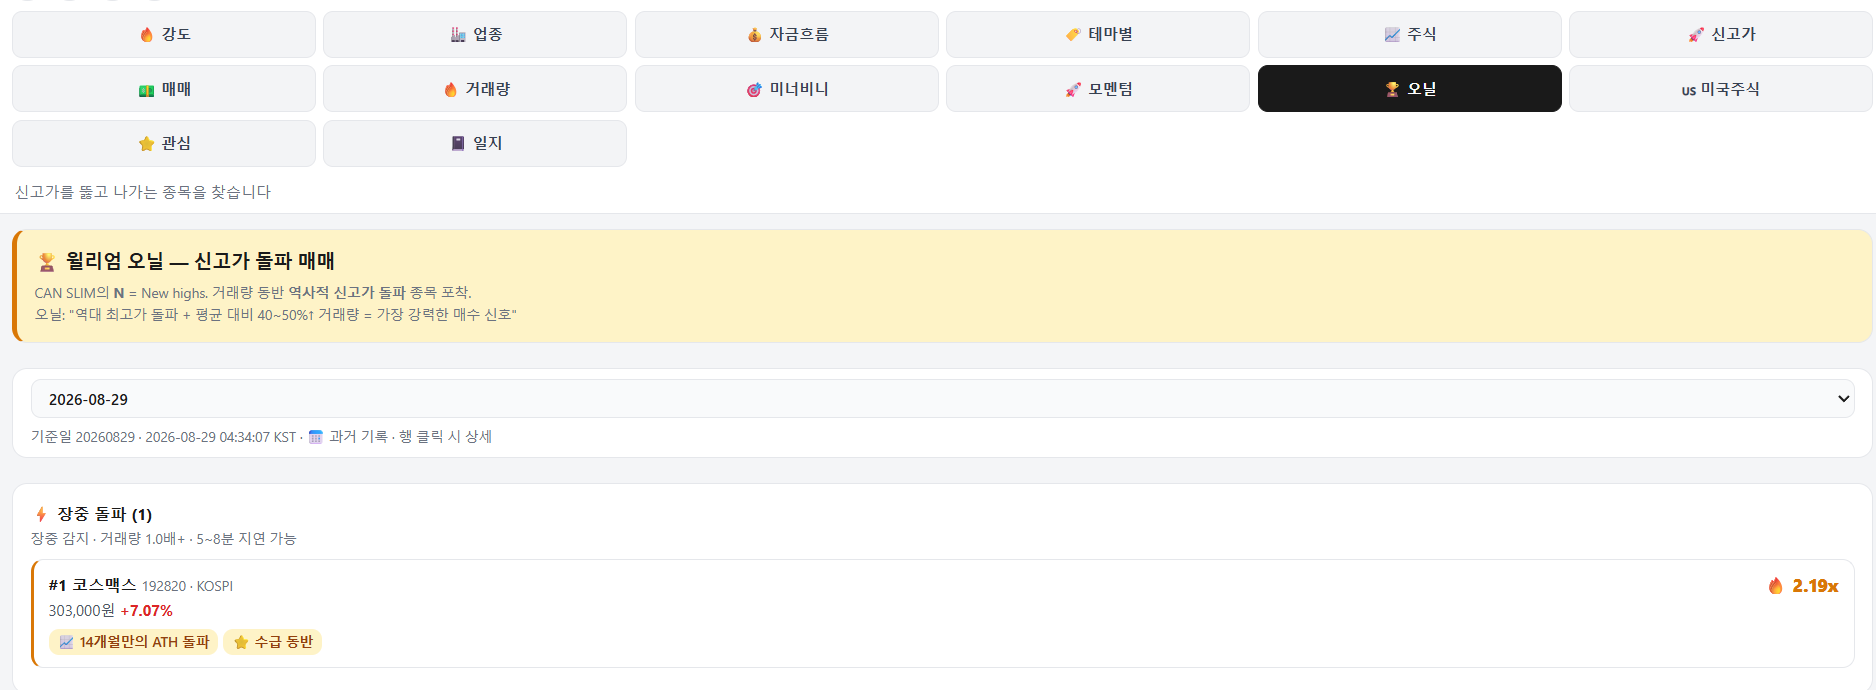
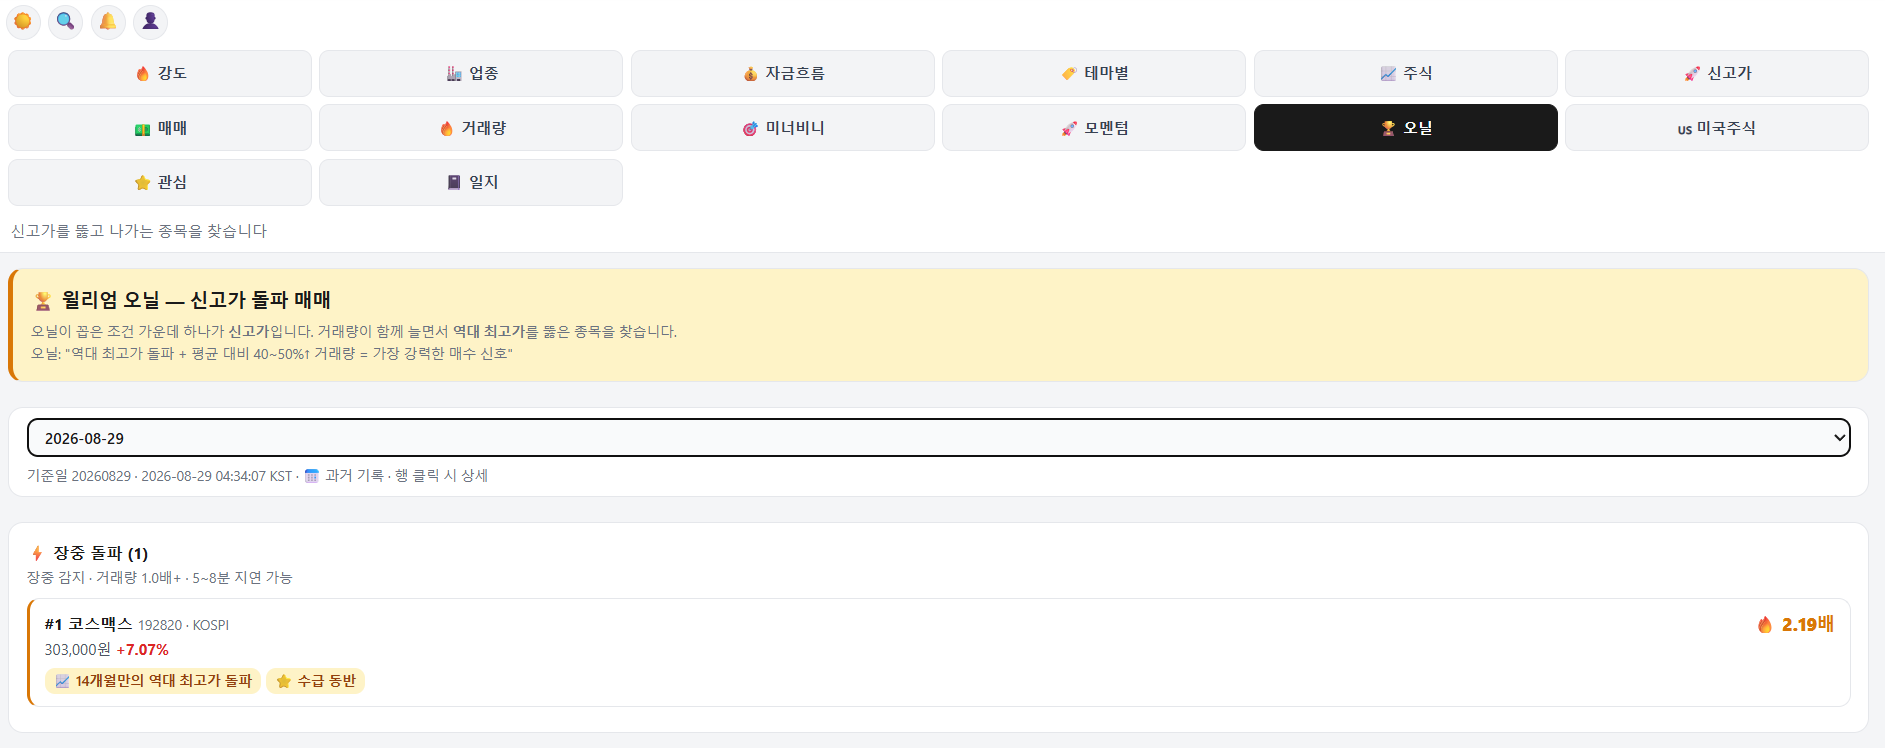
feat: 역대 고점까지 넘었으면 역대 신고가로 적는다
돌파 판정은 52주 고점으로 하되, 그게 역대 고점까지 넘은 것이면 "52주"가
아니라 "역대" 로 적는다. 같은 돌파라도 무게가 다르다.

fetch_ath 가 10년치를 받아 두 값을 한 번에 낸다. 요청 횟수는 그대로다.

  ath / ath_date   52주 고점과 그 날짜 — 돌파 판정 기준선
  all_time_high    10년 고점 — 역대 신고가인지 표시하는 데만 쓴다

fetch_prices 는 is_all_time 을 붙이고, 화면과 텔레그램이 그 값으로 문구를
가른다.

  14개월만의 52주 신고가 돌파
  14개월만의 역대 신고가 돌파

오닐 탭 사진도 지금 화면으로 바꾼다.

덧붙여 앞선 수정에서 CRLF 파일에 LF 를 섞어 넣었던 것을 줄바꿈을 통일하며
정리했다.

주의: ath_cache.json 에 all_time_high 가 들어가려면 Stock Metadata 워크플로를
다시 돌려야 한다. 지금 돌고 있는 것은 이 변경 전이라 필드가 없고, 그때는
is_all_time 이 모두 false 라 전부 "52주 신고가 돌파" 로 나온다.

Claude-Session: https://claude.ai/code/session_012AgQqFFsK9nDxyapZmXV57

diff --git a/index.html b/index.html
@@ -6107,7 +6107,7 @@ function renderAthBreakoutData(el, d, archiveDate) {
         <div class="ath-volratio">🔥 ${b.vol_ratio}배</div>
       </div>
       <div class="ath-tags">
-        <span class="ath-tag ath">📈 ${b.base_days ? (b.base_days >= 30 ? Math.floor(b.base_days/30)+'개월' : b.base_days+'일') + '만의 ' : ''}52주 신고가 돌파</span>
+        <span class="ath-tag ath">📈 ${b.base_days ? (b.base_days >= 30 ? Math.floor(b.base_days/30)+'개월' : b.base_days+'일') + '만의 ' : ''}${b.is_all_time ? '역대' : '52주'} 신고가 돌파</span>
         ${sd}
       </div>
     </div>`;
@@ -6226,7 +6226,7 @@ function renderUsOneil(oneil) {
         </div>
         <div class="ath-volratio">🔥 ${b.vol_ratio}배</div>
       </div>
-      <div class="ath-tags"><span class="ath-tag ath">📈 ${baseTxt}52주 신고가 돌파</span></div>
+      <div class="ath-tags"><span class="ath-tag ath">📈 ${baseTxt}${b.is_all_time ? '역대' : '52주'} 신고가 돌파</span></div>
     </div>`;
   });
   return h + `</div>`;

diff --git a/scripts/fetch_ath.py b/scripts/fetch_ath.py
@@ -35,15 +35,15 @@ HEADERS = {"User-Agent": "Mozilla/5.0 (compatible; ATHFetcher/1.0)"}
 
 
 def fetch_long_history(code):
-    """종목의 최근 1년 일봉. 52주 최고가 산출용.
+    """종목의 장기 일봉. 52주 최고가와 역대 최고가를 함께 산출한다.
     front-api/external/chart/domestic/info — Python literal 응답.
     Returns (code, {ath, ath_date, avg_vol_20d}) or (code, None).
     """
     today = datetime.now(KST)
-    # 10년치 역대 최고가를 쓰면 하락장에서 뚫는 종목이 거의 안 나온다.
-    # 오닐이 보는 것은 "오래 눌려 있다가 다시 고점을 뚫는" 자리이므로
-    # 1년으로 좁힌다. 베이스 60일+ 조건과 함께 걸려야 의미가 산다.
-    start = (today - timedelta(days=365)).strftime("%Y%m%d")
+    # 10년치를 받아 52주 고점과 역대 고점을 한 번에 낸다. 요청이 한 번이라
+    # 비용은 같다. 돌파 판정은 52주 고점으로 하고, 역대 고점은 "이게 역대
+    # 신고가이기도 한가" 를 표시하는 데만 쓴다.
+    start = "20150101"
     end = today.strftime("%Y%m%d")
     url = "https://m.stock.naver.com/front-api/external/chart/domestic/info"
     params = {
@@ -66,29 +66,35 @@ def fetch_long_history(code):
             return code, None
         # data[0] = header, data[1:] = [날짜, 시가, 고가, 저가, 종가, 거래량, 외국인소진율]
         rows = data[1:]
-        ath = 0
-        ath_date = ""
+        cutoff = (today - timedelta(days=365)).strftime("%Y%m%d")
+        high_52w = 0        # 돌파 판정 기준선
+        high_52w_date = ""
+        all_time_high = 0   # 역대 신고가인지 표시하는 데만 쓴다
         volumes = []
         for row in rows:
             if len(row) < 6:
                 continue
             try:
+                day = str(row[0])
                 high = float(row[2])
                 vol = int(row[5]) if row[5] else 0
             except (ValueError, TypeError):
                 continue
-            if high > ath:
-                ath = high
-                ath_date = str(row[0])
+            if high > all_time_high:
+                all_time_high = high
+            if day >= cutoff and high > high_52w:
+                high_52w = high
+                high_52w_date = day
             volumes.append(vol)
-        if ath <= 0:
+        if high_52w <= 0:
             return code, None
         # 최근 20일 평균 거래량
         recent_vols = [v for v in volumes[-20:] if v > 0]
         avg_vol_20d = int(sum(recent_vols) / len(recent_vols)) if recent_vols else 0
         return code, {
-            "ath": ath,
-            "ath_date": ath_date,
+            "ath": high_52w,
+            "ath_date": high_52w_date,
+            "all_time_high": all_time_high,
             "avg_vol_20d": avg_vol_20d,
         }
     except Exception:

diff --git a/scripts/fetch_prices.py b/scripts/fetch_prices.py
@@ -830,6 +830,7 @@ def detect_ath_breakouts(stocks, investor_top, bot_token, chat_id):
             continue
         ath = info.get("ath", 0)
         avg_vol = info.get("avg_vol_20d", 0)
+        all_time = info.get("all_time_high", 0)
         price = s.get("price", 0)
         vol = s.get("volume", 0)
         if ath <= 0 or price <= 0:
@@ -861,6 +862,8 @@ def detect_ath_breakouts(stocks, investor_top, bot_token, chat_id):
             "change": s.get("change", 0),
             "ath": ath,
             "ath_date": ath_date_str,
+            # 52주 고점을 뚫었는데 역대 고점까지 넘었으면 그렇게 적는다.
+            "is_all_time": bool(all_time and price >= all_time),
             "base_days": base_days,
             "volume": vol,
             "vol_ratio": round(vol_ratio, 2),
@@ -925,7 +928,7 @@ def detect_ath_breakouts(stocks, investor_top, bot_token, chat_id):
         lines.append(
             f"• *{b['name']}* (`{b['code']}` {b['market']})\n"
             f"  {b['price']:,}원 ({sign}{b['change']:.2f}%) · 거래량 {b['vol_ratio']}배{sd}\n"
-            f"  📈 {base_txt}만의 52주 신고가 돌파 (이전 고점 {b['ath']:,.0f}원)"
+            f"  📈 {base_txt}만의 {'역대' if b.get('is_all_time') else '52주'} 신고가 돌파 (이전 고점 {b['ath']:,.0f}원)"
         )
     if len(new_alerts) > 12:
         lines.append(f"... 외 {len(new_alerts) - 12}개")
